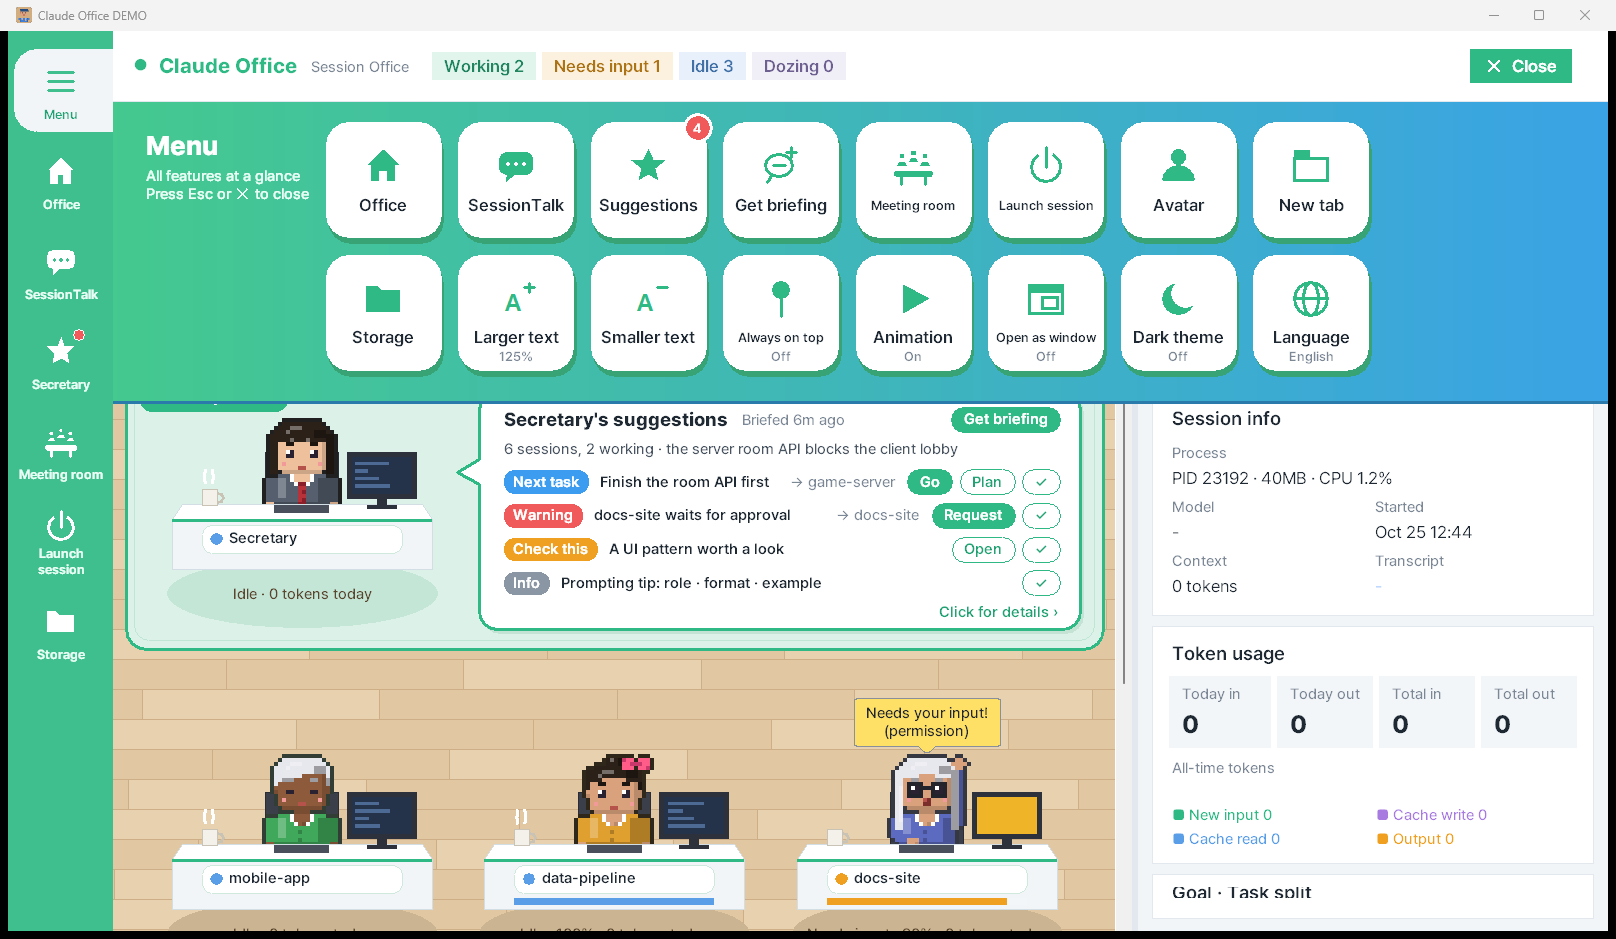
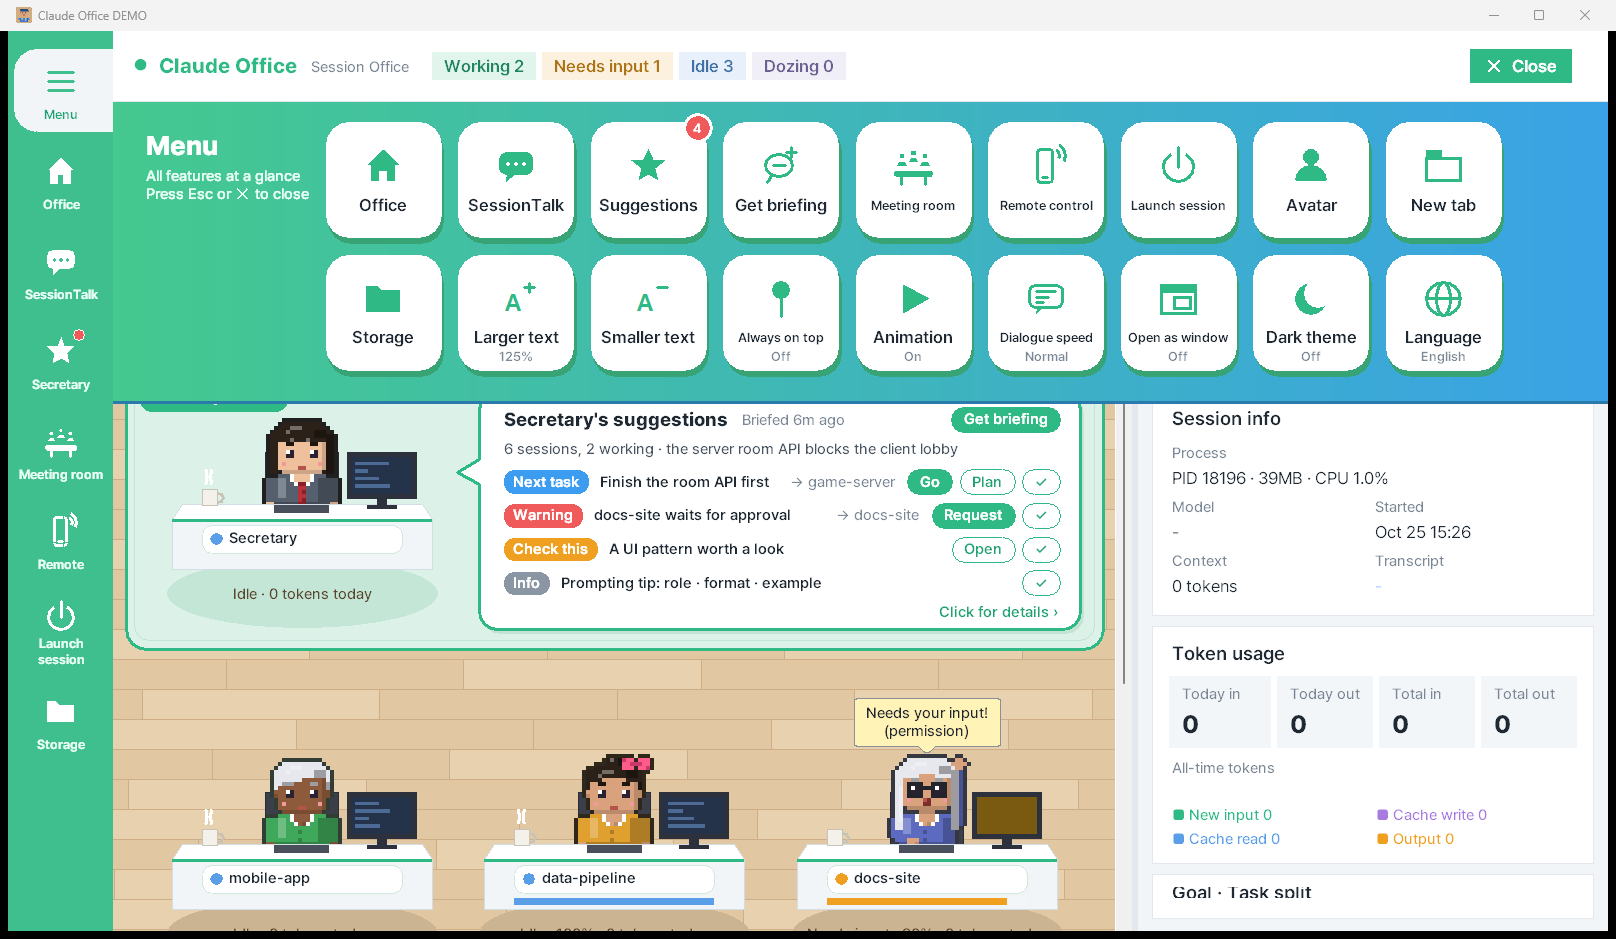
Dialogue typing speed setting; lighter phone polling
- Menu tile and phone setting for meeting dialogue speed (slow/normal/fast/instant)
- /api/state and /api/chat answer a 13-byte {"same":true} when nothing changed
  (X-If-Same / X-Etag; plain 304 is aborted by browsers for no-store fetches)

diff --git a/docs/m/app.js b/docs/m/app.js
@@ -67,6 +67,8 @@ const STR = {
   ago: ['{0}분 전', '{0}m ago', '{0}分前', '{0} 分钟前'], now: ['방금', 'now', 'たった今', '刚刚'],
   today: ['오늘 {0} 토큰', '{0} tokens today', '今日 {0} トークン', '今日 {0} token'],
   presentAgain: ['다시 듣기', 'Replay', 'もう一度', '重听'],
+  typeSpeed: ['회의실 대사 속도', 'Meeting dialogue speed', '会議室のセリフ速度', '会议室台词速度'],
+  sp_slow: ['느리게', 'Slow', 'ゆっくり', '慢'], sp_normal: ['보통', 'Normal', '普通', '普通'], sp_fast: ['빠르게', 'Fast', '速く', '快'], sp_instant: ['바로', 'Instant', '即時', '立即'],
 };
 let LANG = (localStorage.getItem('co.lang') || navigator.language || 'ko').slice(0, 2);
 const LI = () => ({ ko: 0, en: 1, ja: 2, zh: 3 })[LANG] ?? 1;
@@ -138,14 +140,16 @@ async function idbPut(k, v) {
 
 // ───────────── PC와 통신 ─────────────
 let online = false, revoked = false, pcOff = false;
-async function api(path, body, { timeout = 12000, raw = false } = {}) {
+const etags = {};
+async function api(path, body, { timeout = 12000, raw = false, etag = false } = {}) {
   if (!conf.u) throw new Error('no address');
   const ctl = new AbortController();
   const tm = setTimeout(() => ctl.abort(), timeout);
   try {
     const r = await fetch(conf.u + path, {
       method: body ? 'POST' : 'GET', signal: ctl.signal, cache: 'no-store', referrerPolicy: 'no-referrer',
-      headers: Object.assign({ Authorization: 'Bearer ' + conf.k }, body ? { 'Content-Type': 'application/json' } : {}),
+      headers: Object.assign({ Authorization: 'Bearer ' + conf.k }, body ? { 'Content-Type': 'application/json' } : {},
+        etag && etags[path] ? { 'X-If-Same': etags[path][0] } : {}),
       body: body ? JSON.stringify(body) : undefined,
     });
     if (r.status === 401) { revoked = true; throw new Error('unauthorized'); }
@@ -154,7 +158,11 @@ async function api(path, body, { timeout = 12000, raw = false } = {}) {
       try { msg = (await r.json()).error || msg; } catch (e) { /* 무시 */ }
       throw new Error(String(msg));
     }
-    return raw ? r.blob() : r.json();
+    if (raw) return r.blob();
+    const data = await r.json();
+    if (etag && data.same && etags[path]) return etags[path][1];  // 바뀐 게 없음 (휴대폰 데이터 절약)
+    if (etag && r.headers.get('X-Etag')) etags[path] = [r.headers.get('X-Etag'), data];
+    return data;
   } finally { clearTimeout(tm); }
 }
 async function ping(u) {
@@ -223,7 +231,7 @@ async function poll() {
   clearTimeout(pollTimer);
   if (document.hidden) { pollTimer = setTimeout(poll, 4000); return; }
   try {
-    const s = await api('/api/state');
+    const s = await api('/api/state', null, { etag: true });
     online = true; setConn('on');
     const sig = JSON.stringify(s, (k, v) => (k === 'now' ? 0 : v));
     if (sig !== stateSig) { stateSig = sig; state = s; render(true); }
@@ -488,7 +496,7 @@ function viewTalk(v) {
 function setRoom(r) { room = r; localStorage.setItem('co.room', r); chatData = null; render(); refreshChat(true); }
 async function refreshChat(force) {
   try {
-    const d = await api('/api/chat?room=' + encodeURIComponent(room));
+    const d = await api('/api/chat?room=' + encodeURIComponent(room), null, { etag: true });
     const sig = JSON.stringify(d);
     if (sig === chatSig && !force) return;
     chatSig = sig; chatData = d;
@@ -678,14 +686,15 @@ function typeOut(text) {
   const el = $('#dlg-txt'), more = $('#dlg-more');
   if (!el) return;
   more.hidden = true;
-  const reduce = matchMedia('(prefers-reduced-motion: reduce)').matches;
+  const reduce = matchMedia('(prefers-reduced-motion: reduce)').matches || typeScale() === 0;
   const step = () => {
     if (!$('#dlg-txt')) return;
     talk.n = reduce ? text.length : talk.n + 1;
     el.textContent = text.slice(0, talk.n);
     if (talk.n >= text.length) { more.hidden = !talk.sid; return; }
     const ch = text[talk.n - 1];
-    talk.timer = setTimeout(step, '.!?。！？\n'.includes(ch) ? 260 : ',，、'.includes(ch) ? 110 : 28);  // 초당 약 35자, 문장 끝에서 잠깐
+    const base = '.!?。！？\n'.includes(ch) ? 260 : ',，、'.includes(ch) ? 110 : 28;  // 보통 = 초당 약 35자, 문장 끝에서 잠깐
+    talk.timer = setTimeout(step, Math.max(1, base * typeScale()));
   };
   step();
 }
@@ -704,6 +713,10 @@ function autoPresent(m) {
   if (next) { setTimeout(() => { if (!talk.sid && tab === 'meet') present(next.sid); }, 500); return true; }
   return false;
 }
+
+const SPEEDS = { slow: 1.6, normal: 1, fast: 0.45, instant: 0 };
+function typeSpeed() { const v = localStorage.getItem('co.typeSpeed'); return v in SPEEDS ? v : 'normal'; }
+function typeScale() { return SPEEDS[typeSpeed()]; }
 
 // ───────────── 더보기 ─────────────
 let past = null;
@@ -746,6 +759,11 @@ function viewMore(v) {
     nCard.append(btns);
   }
   v.append(nCard);
+  // 대사 속도
+  const sp = h('div', { class: 'chips' });
+  Object.keys(SPEEDS).forEach(k => sp.append(h('button', { class: k === typeSpeed() ? 'on' : '', text: t('sp_' + k), onclick: e => {
+    localStorage.setItem('co.typeSpeed', k); sp.querySelectorAll('button').forEach(b => b.classList.toggle('on', b === e.currentTarget)); } })));
+  v.append(h('div', { class: 'card' }, h('h2', { class: 'title', text: t('typeSpeed') }), sp));
   // 연결
   v.append(h('div', { class: 'card' }, h('h2', { class: 'title', text: t('conn') }),
     h('div', { class: 'kv' }, h('b', { text: t('pcAddr') }), h('span', { class: 'ell', text: conf.u || '-' })),

diff --git a/office_remote.py b/office_remote.py
@@ -638,14 +638,22 @@ class _Handler(http.server.BaseHTTPRequestHandler):
         if origin == self.remote.app_origin:
             self.send_header('Access-Control-Allow-Origin', origin)
             self.send_header('Vary', 'Origin')
-            self.send_header('Access-Control-Allow-Headers', 'Authorization, Content-Type')
+            self.send_header('Access-Control-Allow-Headers', 'Authorization, Content-Type, X-If-Same')
+            self.send_header('Access-Control-Expose-Headers', 'X-Etag')
             self.send_header('Access-Control-Allow-Methods', 'GET, POST, OPTIONS')
             self.send_header('Access-Control-Max-Age', '600')
 
     def _send(self, code, body, ctype='application/json; charset=utf-8', cache='no-store'):
+        etag = None
         if not isinstance(body, (bytes, bytearray)):
             body = json.dumps(body, ensure_ascii=False).encode()
+            if code == 200:  # 지난번과 내용이 같으면 짧은 '같음'만 보낸다 (휴대폰 데이터 절약; 304는 브라우저가 끊어 버려 쓰지 않음)
+                etag = hashlib.sha1(body).hexdigest()[:20]
+                if self.headers.get('X-If-Same') == etag:
+                    body = b'{"same":true}'
         self.send_response(code)
+        if etag:
+            self.send_header('X-Etag', etag)
         self._cors()
         self.send_header('Content-Type', ctype)
         self.send_header('Content-Length', str(len(body)))
@@ -734,7 +742,7 @@ def api_state(r, dev, q, body):
                           'done': it['_key'] in app.sec_done,
                           'choices': [{'i': i, 'label': ch['label'], 'on': bool(ch.get('sid'))}
                                       for i, ch in enumerate(app.sec_choices(it))]})
-        return {'v': 1, 'lang': co.LANG, 'now': int(time.time()), 'sessions': out, 'chat_ver': chat_ver,
+        return {'v': 1, 'lang': co.LANG, 'sessions': out, 'chat_ver': chat_ver,
                 'sec': {'sid': app.sec_sid, 'summary': _clip(sec.get('summary'), 600), 'updated': sec.get('updatedAt'),
                         'briefing': app.briefing(), 'items': items},
                 'meeting': _meeting(r), 'alerts': r.alerts[-10:]}
